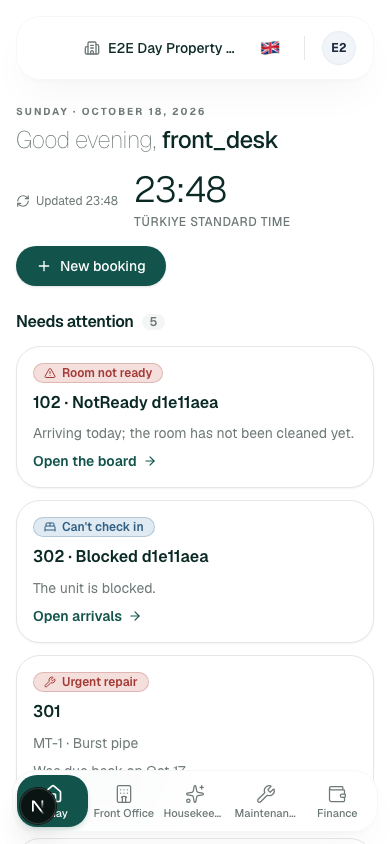
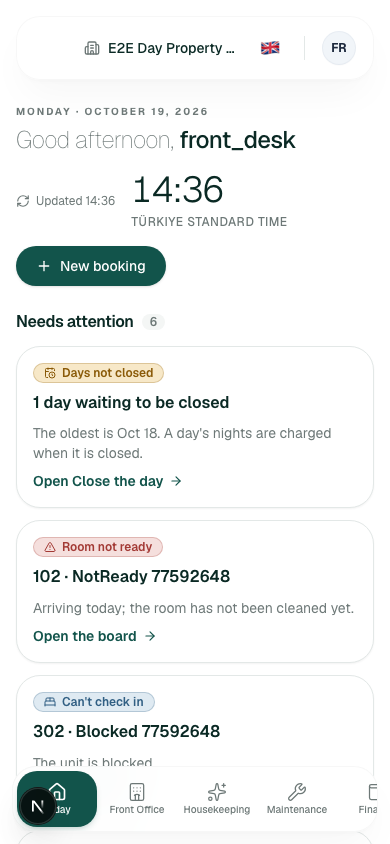
test(today): on a phone the figures are asserted straight under what needs attention, and that list folded
The days waiting to be closed card (CLOSE-06) leads the list and no fold
hides it, so the front desk's known day shows five cards, not four, and the
first figure sat at 1,307 px against a bound of 1,300. The bound stood in for
two claims; they are now asserted themselves: the figures follow the list with
nothing but the page's gap between them, and the list shows at most four rooms
and the backlog card. Each goes red on its own sabotage (unfolded list: six
cards; tiles moved below the movements: a 1,068 px gap).

diff --git a/tests/browser/today-ux.spec.ts b/tests/browser/today-ux.spec.ts
@@ -315,17 +315,26 @@ test("on a phone the figures come straight after what needs attention", async ({
 }) => {
   await page.setViewportSize({ width: 390, height: 844 });
   await signInAs(page, "front_desk");
-  const attention = await page.locator("#today-attention").boundingBox();
+  const region = page.getByRole("region", { name: "Needs attention" });
+  await expect(region.getByRole("listitem").first()).toBeVisible();
+  // Folded, so the figures are not two thousand pixels down: four rooms
+  // before "more", and the one card for days waiting to be closed, which no
+  // fold hides.
+  const cards = region
+    .getByRole("listitem")
+    .filter({ hasNot: page.getByRole("button", { name: /^\d+ more$/ }) });
+  expect(await cards.count()).toBeLessThanOrEqual(4 + 1);
+  const attention = await region.boundingBox();
   const tile = await page
     .getByRole("link", { name: /Checked in/ })
     .boundingBox();
   const movements = await page
     .getByRole("heading", { name: "Today's movements" })
     .boundingBox();
-  expect(tile!.y).toBeGreaterThan(attention!.y);
+  // Straight after: nothing between the list and the first figure but the
+  // page's own gap of 1.5 rem.
+  expect(tile!.y - (attention!.y + attention!.height)).toBeCloseTo(24, 0);
   expect(tile!.y).toBeLessThan(movements!.y);
-  // Not two thousand pixels down.
-  expect(tile!.y).toBeLessThan(1_300);
   const overflow = await page.evaluate(
     () => document.documentElement.scrollWidth - window.innerWidth,
   );
